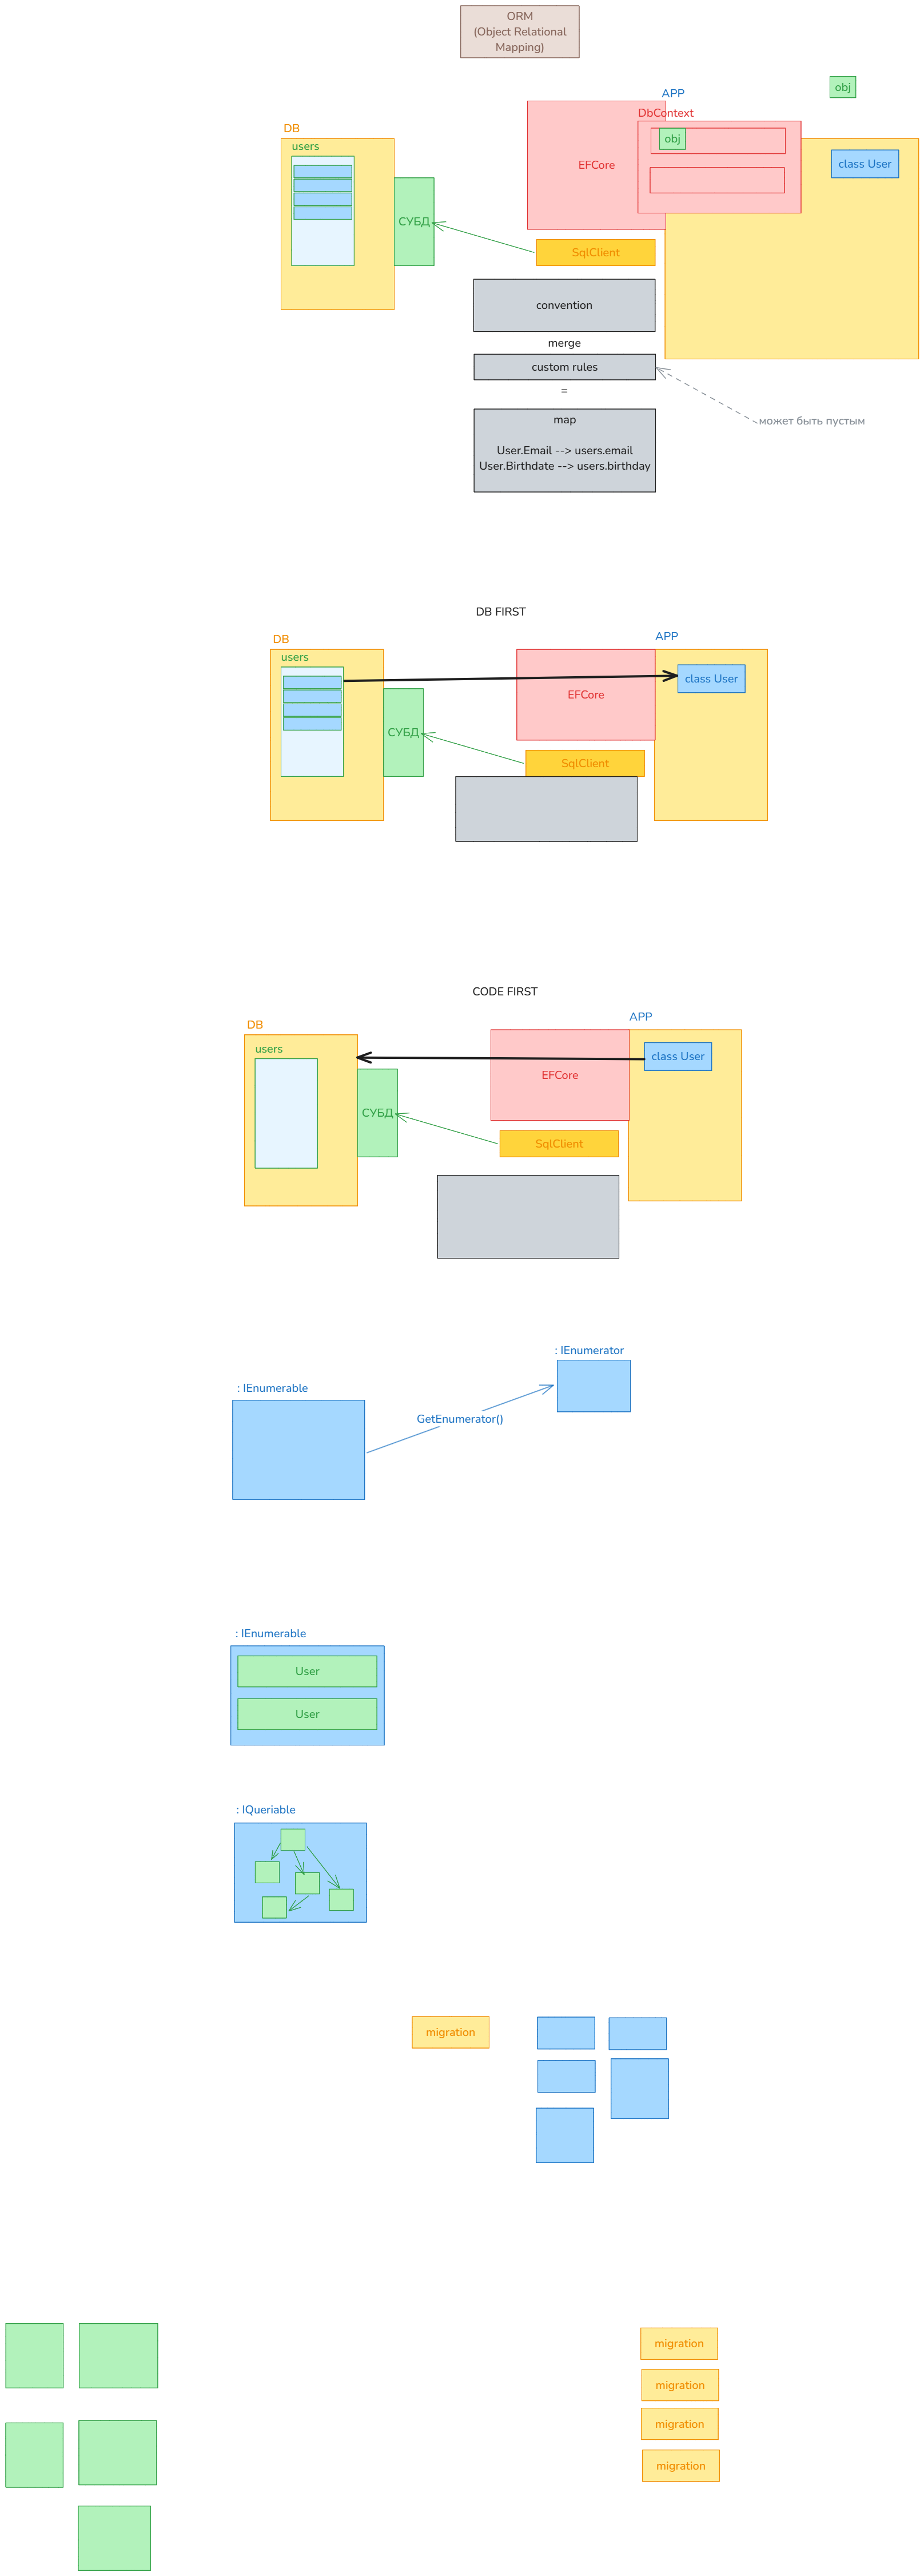
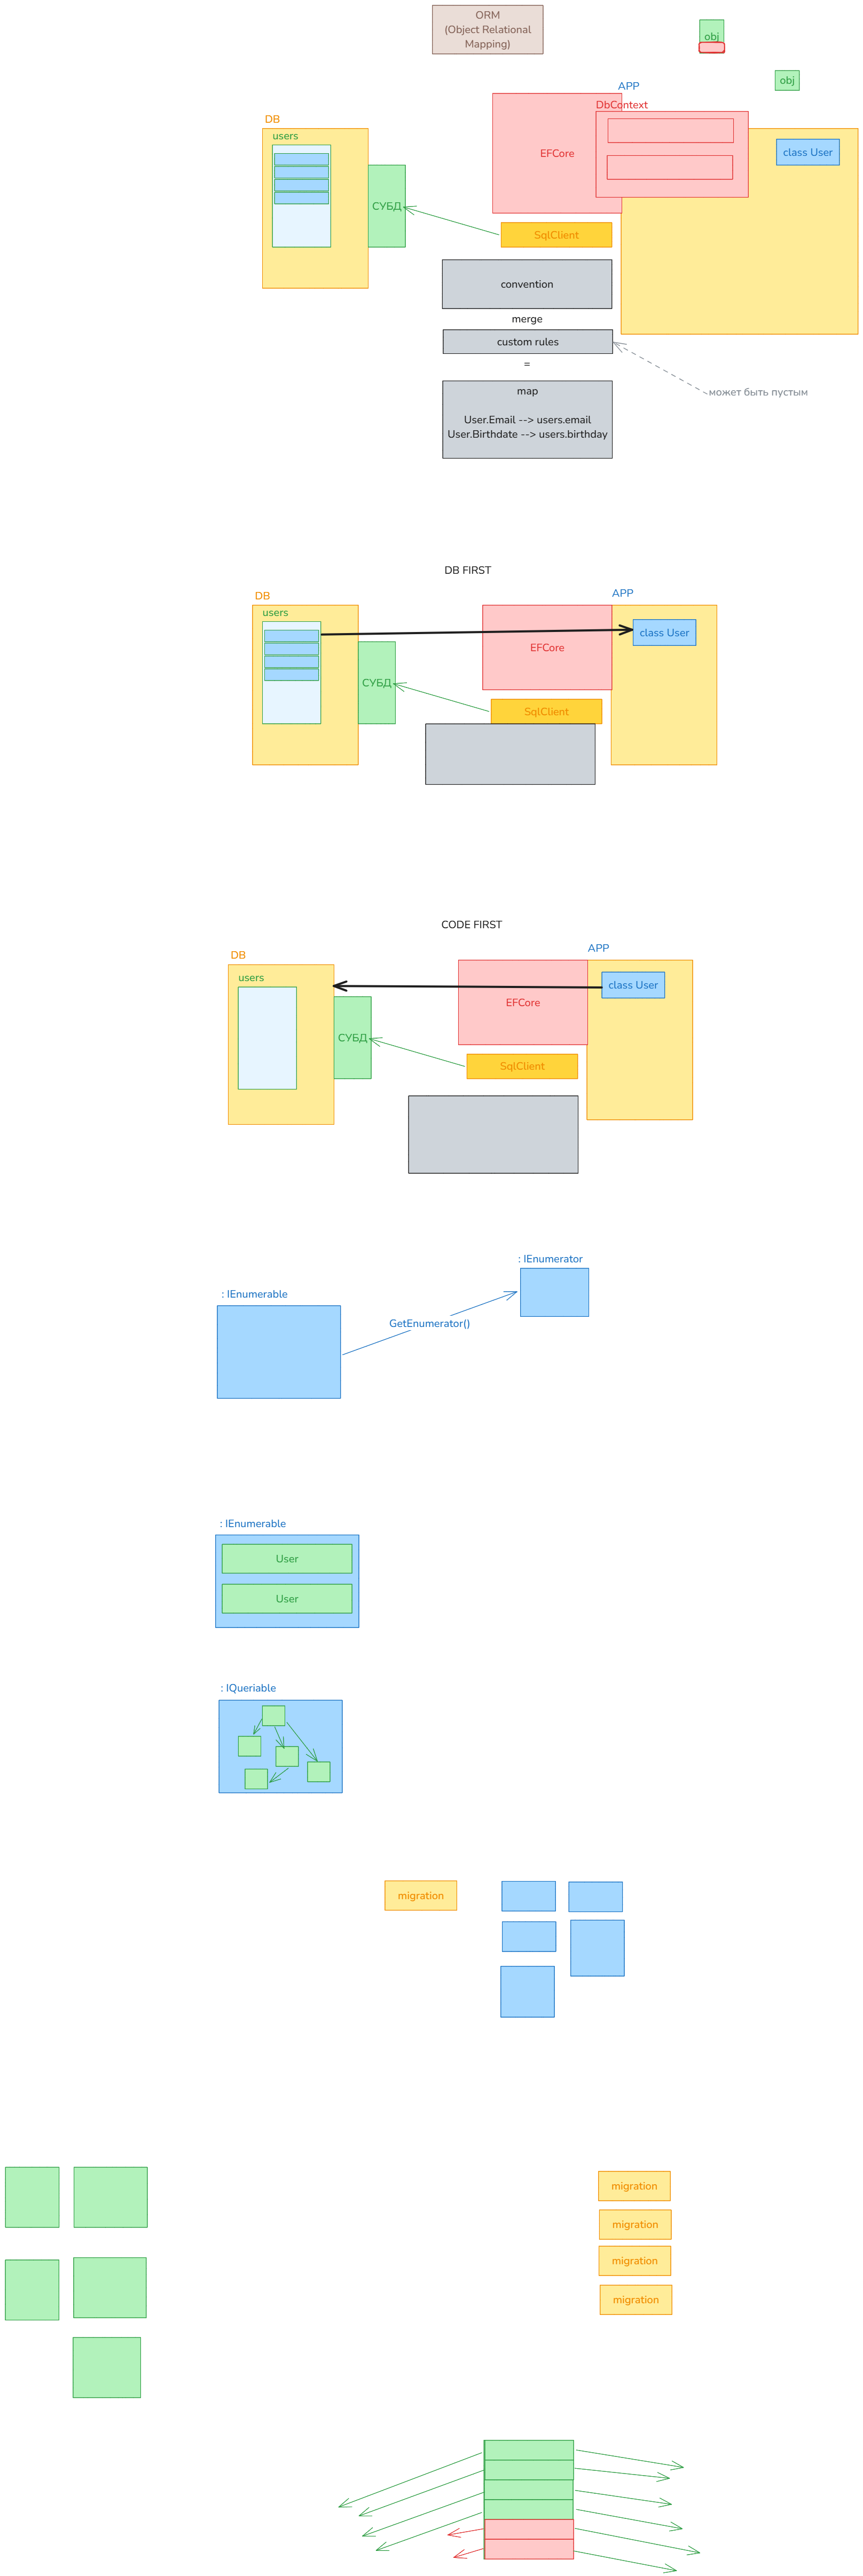
add: fluent api

diff --git a/06_attr_fluent/01_attr_fluent/Program.cs b/06_attr_fluent/01_attr_fluent/Program.cs
@@ -1,0 +1,50 @@
+
+using _01_attr_fluent;
+using Microsoft.EntityFrameworkCore;
+
+//using Db db = new Db();
+
+//User user = new User()
+//{
+//    Email = "[email redacted]",
+//    Age = 23,
+//};
+//Role role = new Role()
+//{
+//    Title = "admin",
+//};
+
+//db.Users.Add(user);
+//db.Roles.Add(role);
+
+////
+////
+//user.Token = Guid.NewGuid().ToString();
+//user.Role = role;
+////
+////
+//Console.WriteLine(user.Token);
+////
+////
+//db.SaveChanges();
+
+
+
+using Db db = new Db();
+
+//User user = db.Users
+//    .Include(u => u.Role)
+//    .First(u => u.Id == 1);
+
+//Console.WriteLine(user.Role?.Title);
+
+
+
+//User user = db.Users.First(u => u.Id == 1);
+////
+////
+//db.Entry(user).Reference(u => u.Role).Load();
+
+//Console.WriteLine(user.Role?.Title);
+
+

diff --git a/06_attr_fluent/01_attr_fluent/Db.cs b/06_attr_fluent/01_attr_fluent/Db.cs
@@ -1,0 +1,31 @@
+using Microsoft.EntityFrameworkCore;
+
+namespace _01_attr_fluent;
+
+internal class Db: DbContext
+{
+    public DbSet<User> Users { get; set; }
+    public DbSet<Role> Roles { get; set; }
+
+    public Db()
+    {
+        Database.EnsureDeleted();
+        Database.EnsureCreated();
+    }
+
+    protected override void OnConfiguring(DbContextOptionsBuilder optionsBuilder)
+    {
+        optionsBuilder.UseSqlServer("Server=.\\SQLEXPRESS;Database=p42_ef_fluent_db;Trusted_Connection=True;Encrypt=False;");
+    }
+
+    protected override void OnModelCreating(ModelBuilder mb)
+    {
+        mb.Entity<User>().Ignore(u => u.Token);
+
+        mb.Entity<User>().ToTable("clients");
+
+        mb.Entity<User>()
+            .Property(u => u.Email)
+            .HasColumnName("user_email");
+    }
+}

diff --git a/06_attr_fluent/01_attr_fluent/User.cs b/06_attr_fluent/01_attr_fluent/User.cs
@@ -1,0 +1,15 @@
+using System.ComponentModel.DataAnnotations.Schema;
+
+namespace _01_attr_fluent;
+
+//[Table("clients")]
+internal class User
+{
+    public int Id { get; set; }
+    //[Column("user_email")]
+    public string Email { get; set; }
+    public int? Age { get; set; }
+    public Role? Role { get; set; }
+    //[NotMapped]
+    public string Token { get; set; } = string.Empty;
+}

diff --git a/06_attr_fluent/01_attr_fluent/Role.cs b/06_attr_fluent/01_attr_fluent/Role.cs
@@ -1,0 +1,7 @@
+namespace _01_attr_fluent;
+
+internal class Role
+{
+    public int Id { get; set; }
+    public string Title { get; set; }
+}

diff --git a/05_migrations/migrations.md b/05_migrations/migrations.md
@@ -1,0 +1,40 @@
+## Основные команды миграций
+
+| Действие | dotnet CLI | PMC (NuGet Package Console) |
+|----------|------------|------------------------------|
+| Создать новую миграцию | `dotnet ef migrations add <ИмяМиграции>` | `Add-Migration <ИмяМиграции>` |
+| Применить миграции (обновить БД) | `dotnet ef database update` (или до конкретной: `dotnet ef database update <ИмяМиграции>`) | `Update-Database` (или `Update-Database -Migration <ИмяМиграции>`) |
+| Удалить последнюю миграцию (до применения к БД) | `dotnet ef migrations remove` | `Remove-Migration` |
+| Сгенерировать SQL-скрипт для миграций | `dotnet ef migrations script` | `Script-Migration` |
+| Просмотреть список миграций | `dotnet ef migrations list` | `Get-Migration` (неофициально, лучше `Get-Migrations` из пакета `Microsoft.EntityFrameworkCore.Tools`) |
+| Сбросить БД и применить все миграции с нуля | `dotnet ef database drop --force --dry-run` + `dotnet ef database update` | `Update-Database -Migration 0` (откат до нуля) |
+| Получить контекст и информацию | `dotnet ef dbcontext info` | `Get-DbContext` |
+
+## Сравнение синтаксиса и особенностей.
+
+### Откат и удаление миграций
+- **dotnet CLI**:  
+  `dotnet ef migrations remove` удаляет последнюю миграцию **только если она не применена к БД**. Если применена, нужно сначала откатиться:  
+  `dotnet ef database update <ПредыдущаяМиграция>`  
+  (или `dotnet ef database update 0` для полного отката).
+- **PMC**:  
+  `Remove-Migration` также удаляет последнюю миграцию (без применения).  
+  Откат: `Update-Database -Migration <ПредыдущаяМиграция>` или `Update-Database -Migration 0`.
+
+### Генерация SQL-скрипта
+- **dotnet CLI**:  
+  `dotnet ef migrations script` – генерирует скрипт от начальной миграции до последней.  
+  Можно указать `from` и `to`: `dotnet ef migrations script First Last`.
+- **PMC**:  
+  `Script-Migration` – работает аналогично, но синтаксис может отличаться (например, `Script-Migration -From First -To Last`).
+
+## Краткая шпаргалка
+
+| Задача | dotnet CLI | PMC |
+|--------|------------|-----|
+| Установка инструмента | `dotnet tool install --global dotnet-ef` | Установить NuGet пакет `Microsoft.EntityFrameworkCore.Tools` |
+| Добавить миграцию | `dotnet ef migrations add Name` | `Add-Migration Name` |
+| Обновить БД | `dotnet ef database update` | `Update-Database` |
+| Удалить миграцию | `dotnet ef migrations remove` | `Remove-Migration` |
+| Показать список | `dotnet ef migrations list` | `Get-Migrations` (если доступна) |
+| Сгенерировать SQL | `dotnet ef migrations script` | `Script-Migration` |